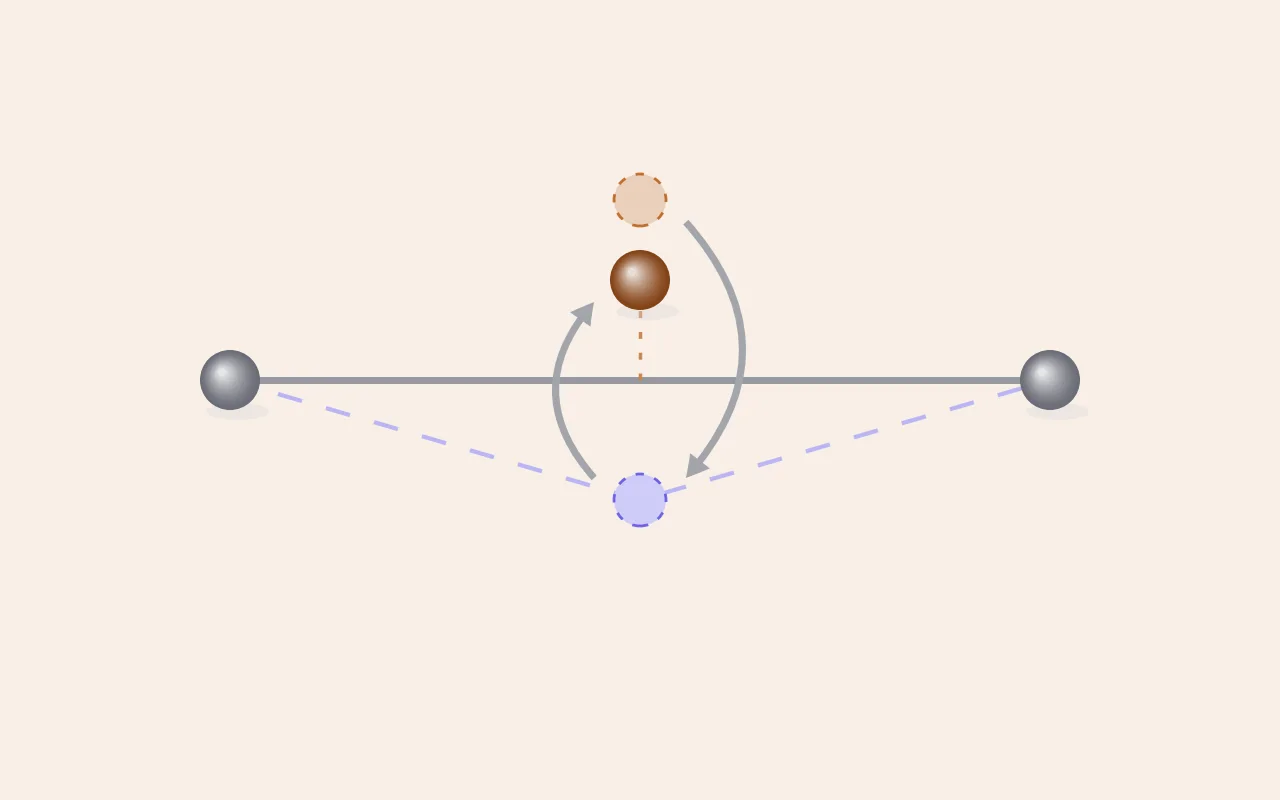
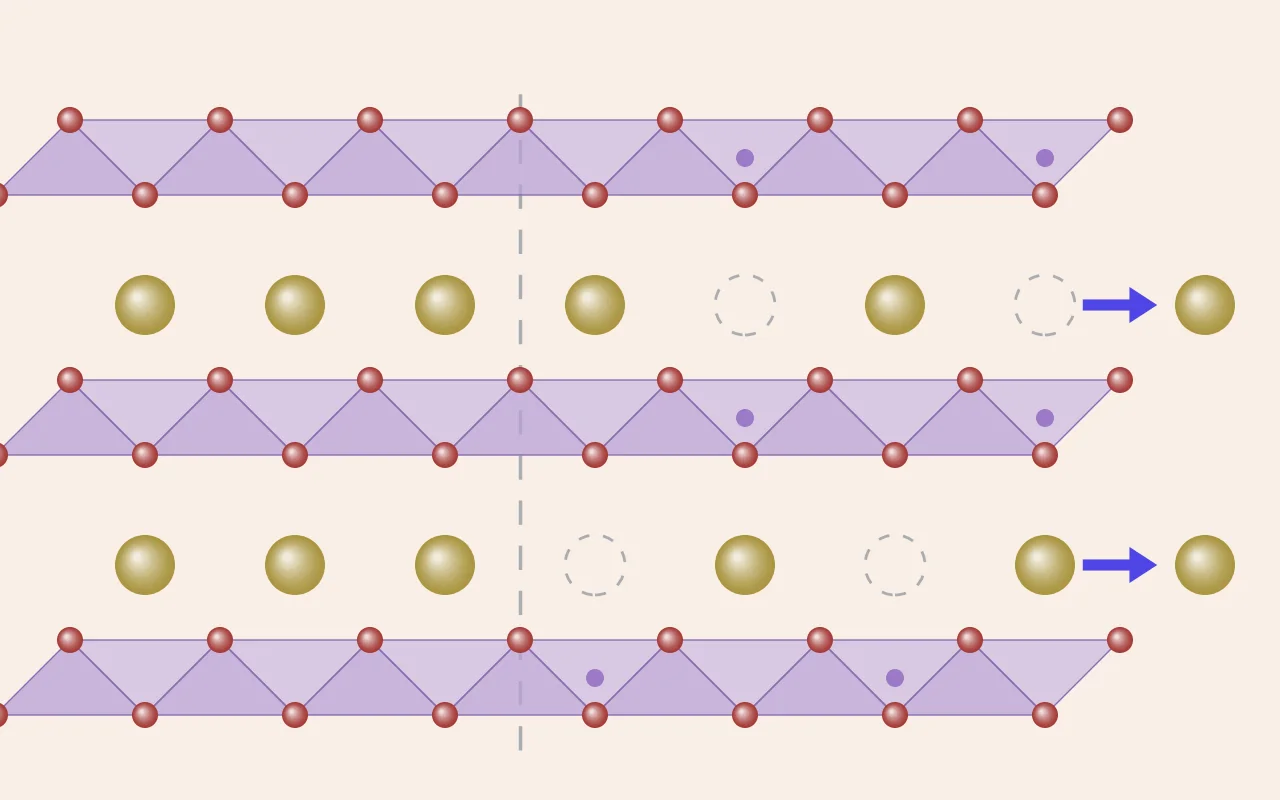
DFT 실습 [9] 삽화를 원자 단위 그림으로: 충전 중인 α-NaMnO₂의 두 상 공존
- 볼록 껍질 도식 대신 MnO₂ 층 사이 Na가 다 찬 x = 1과 절반 빠진 x = 0.5가
  경계를 두고 공존하는 그림. 빈자리는 점선 원, 맞닿은 Mn⁴⁺는 층 안의 점,
  빠져나온 Na는 층 사이 통로를 따라 밖으로
- 글의 그림 캡션·alt도 원자 그림 설명으로 교체
- 썸네일(640×400)·본문 삽화(1280×800) 다시 렌더

diff --git a/posts/dft-practice-9.html b/posts/dft-practice-9.html
@@ -33,8 +33,8 @@
           </div>
 
           <figure class="shot wide illus">
-            <div class="shot-card"><img src="../assets/illus/dft-practice-9.webp" alt="양 끝 조성을 잇는 볼록 껍질 위에서 가운데 조성의 점이 세 번 자리를 바꾼다" width="1280" height="800" loading="lazy" decoding="async"></div>
-            <figcaption>양 끝 조성(x = 0.5, 1)을 잇는 선이 볼록 껍질입니다. 가운데 Na₀.₇₅MnO₂의 에너지는 샘플링을 넓힐 때마다 선 위, 아래, 다시 위로 세 번 자리를 바꿨습니다.</figcaption>
+            <div class="shot-card"><img src="../assets/illus/dft-practice-9.webp" alt="층상 NaMnO₂에서 Na가 다 찬 영역과 절반 빠진 영역이 경계를 두고 공존하는 원자 그림" width="1280" height="800" loading="lazy" decoding="async"></div>
+            <figcaption>충전 중의 α-NaMnO₂를 원자 단위로. MnO₂ 층(보라 팔면체와 빨간 산소) 사이에 Na(노랑)가 끼어 있고, 왼쪽은 Na가 다 찬 x = 1, 오른쪽은 절반이 빠진 x = 0.5, 점선이 두 상의 경계입니다. 빈자리와 맞닿은 Mn은 4+가 되고(작은 점), 빠져나온 Na는 층 사이 통로를 따라 바깥의 Na 금속으로 갑니다. Na₀.₇₅MnO₂ 같은 중간 조성이 볼록 껍질 위에 있으면 이렇게 두 상으로 갈라져 전압 곡선에 평탄 구간이 생깁니다.</figcaption>
           </figure>
 
 <div class="box">

diff --git a/scripts/render-illustrations.py b/scripts/render-illustrations.py
@@ -385,27 +385,46 @@ def dft_practice_8():
     save(fig, "dft-practice-8")
 
 
-# ── 실습 [9] 볼록 껍질이 세 번 뒤집히기까지: 가운데 점이 선 위·아래를 오간다 ──
+# ── 실습 [9] 총정리: 충전 중의 α-NaMnO₂를 원자 단위로. 왼쪽 x = 1, 오른쪽 x = 0.5, 사이는 두 상의 경계 ──
 def dft_practice_9():
     fig, ax = canvas(BG_DFT)
-    L, R = (230, 420), (1050, 420)   # 양 끝 조성(x=0.5, x=1). 캔버스는 y가 위로 커진다
-    mx = (L[0] + R[0]) / 2
-    ys = [600, 300, 520]  # 1차: 선 위(불안정) → 2차: 선 아래(안정) → 3차: 다시 위. 마지막이 결론
-    # 껍질: 두 끝을 잇는 선. 2차 판정 때는 껍질이 가운데로 꺾여 내려갔다(점선)
-    ax.plot([L[0], R[0]], [L[1], R[1]], color=mix(GRAPH, 0.2), lw=5, zorder=2, solid_capstyle="round")
-    ax.plot([L[0], mx, R[0]], [L[1], ys[1], R[1]], color=mix(INDIGO, 0.6), lw=3, ls=(0, (6, 6)), zorder=1)
-    for k, y in enumerate(ys[:2]):
-        col = WARM if y > L[1] else INDIGO
-        ax.add_patch(Circle((mx, y), 26, color=mix(col, 0.72), zorder=4, lw=0))
-        ax.add_patch(Circle((mx, y), 26, fill=False, ec=col, lw=2, ls=(0, (3, 4)), zorder=4.5, alpha=0.8))
-    # 판정이 옮겨간 순서: 굽은 화살표 둘
-    ax.add_patch(FancyArrowPatch((mx + 44, ys[0] - 20), (mx + 44, ys[1] + 20), arrowstyle="simple,head_length=16,head_width=18,tail_width=5", color=mix(GRAPH, 0.3), zorder=3, lw=0, connectionstyle="arc3,rad=-0.45"))
-    ax.add_patch(FancyArrowPatch((mx - 44, ys[1] + 20), (mx - 44, ys[2] - 20), arrowstyle="simple,head_length=16,head_width=18,tail_width=5", color=mix(GRAPH, 0.3), zorder=3, lw=0, connectionstyle="arc3,rad=-0.45"))
-    # 결론: 선 위에 남은 점과, 선까지의 높이
-    ax.plot([mx, mx], [L[1], ys[2] - 30], color=mix(WARM, 0.3), lw=2.5, ls=(0, (2, 4)), zorder=3)
-    sphere(ax, mx, ys[2], 30, WARM, z=6)
-    sphere(ax, *L, 30, "#8d939c", z=6)
-    sphere(ax, *R, 30, "#8d939c", z=6)
+    step, x_start, n = 150, 70, 7
+    def slab(y0):
+        for i in range(n):
+            x = x_start + i * step
+            tri_up = [(x, y0 + 55), (x - 75, y0 - 20), (x + 75, y0 - 20)]
+            tri_dn = [(x + 75, y0 - 20), (x + 150, y0 + 55), (x, y0 + 55)]
+            ax.add_patch(Polygon(tri_up, closed=True, color=mix(MN, 0.3), alpha=0.75, zorder=2, lw=0))
+            ax.add_patch(Polygon(tri_dn, closed=True, color=mix(MN, 0.5), alpha=0.75, zorder=2, lw=0))
+            ax.add_patch(Polygon(tri_up, closed=True, fill=False, ec=mix(MN, 0.15, INK), lw=1, zorder=2.5))
+            ax.add_patch(Polygon(tri_dn, closed=True, fill=False, ec=mix(MN, 0.15, INK), lw=1, zorder=2.5))
+        for i in range(n + 1):
+            sphere(ax, x_start + i * step - 75, y0 - 20, 13, O, z=4, shadow=False)
+            sphere(ax, x_start + i * step, y0 + 55, 13, O, z=4, shadow=False)
+    # 슬랩 셋, 사이에 Na 층 둘
+    for y0 in (105, 365, 625):
+        slab(y0)
+    # 두 상의 경계 (세로 점선)
+    bx = x_start + 2 * step + 150          # Na 열 2와 3 사이, 원자 위를 지나지 않게
+    ax.plot([bx, bx], [50, 720], color=mix(GRAPH, 0.35), lw=2.5, ls=(0, (7, 6)), zorder=1)
+    for gy in (235, 495):
+        for i in range(n):
+            x = x_start + i * step + 75
+            if x < bx:
+                sphere(ax, x, gy, 30, NA, z=5, shadow=False)                  # x = 1: 다 찬 Na
+            else:
+                if (i + (0 if gy == 235 else 1)) % 2 == 0:
+                    sphere(ax, x, gy, 30, NA, z=5, shadow=False)              # x = 0.5: 하나 걸러 남음
+                else:
+                    ax.add_patch(Circle((x, gy), 30, fill=False, ec=mix(GRAPH, 0.35), lw=2, ls=(0, (4, 5)), zorder=5))
+    # 빈자리와 맞닿은 Mn⁴⁺: 슬랩마다 오른쪽 Mn의 절반, 작고 진한 점 (위·가운데는 위 Na 층의 빈자리 열, 아래는 아래 Na 층의 빈자리 열)
+    for y0, cols in ((625, (4, 6)), (365, (4, 6)), (105, (3, 5))):
+        for i in cols:
+            ax.add_patch(Circle((x_start + i * step + 75, y0 + 17), 9, color=mix(MN, 0.0, INK), zorder=3.5, lw=0))
+    # 나가는 Na: 층 사이 통로를 따라 오른쪽 가장자리 밖으로 (충전)
+    for gy in (235, 495):
+        ax.add_patch(FancyArrowPatch((x_start + n * step - 40, gy), (x_start + n * step + 40, gy), arrowstyle="simple,head_length=20,head_width=26,tail_width=8", color=INDIGO, zorder=7, lw=0))
+        sphere(ax, x_start + n * step + 85, gy, 30, NA, z=6, shadow=False)
     save(fig, "dft-practice-9")
 
 if __name__ == "__main__":
